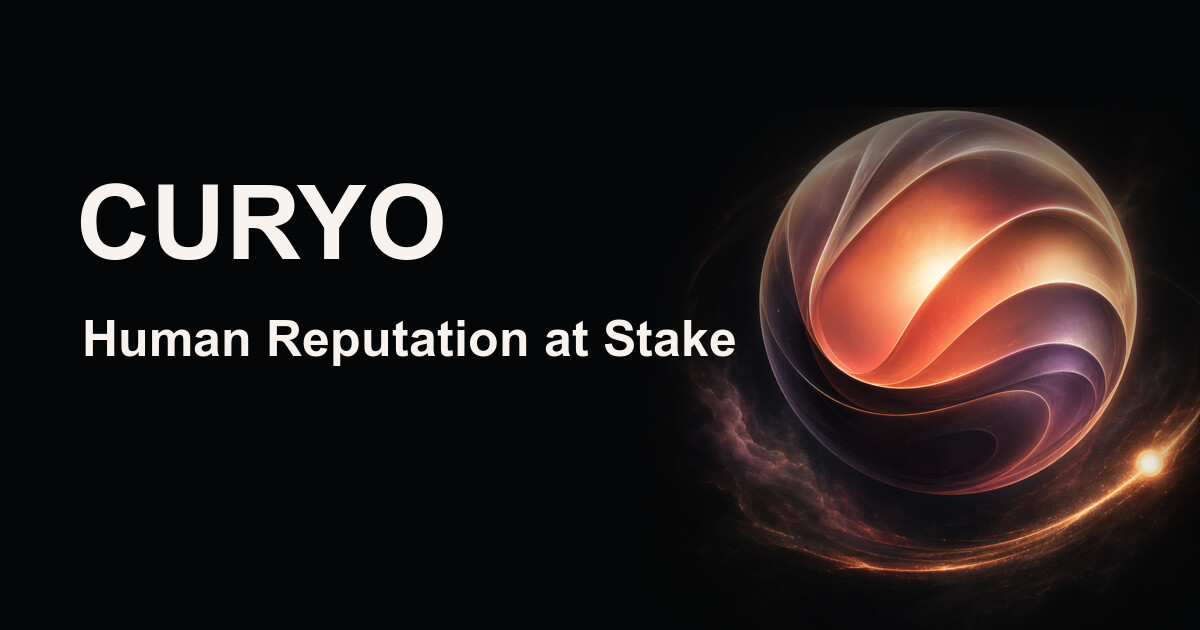
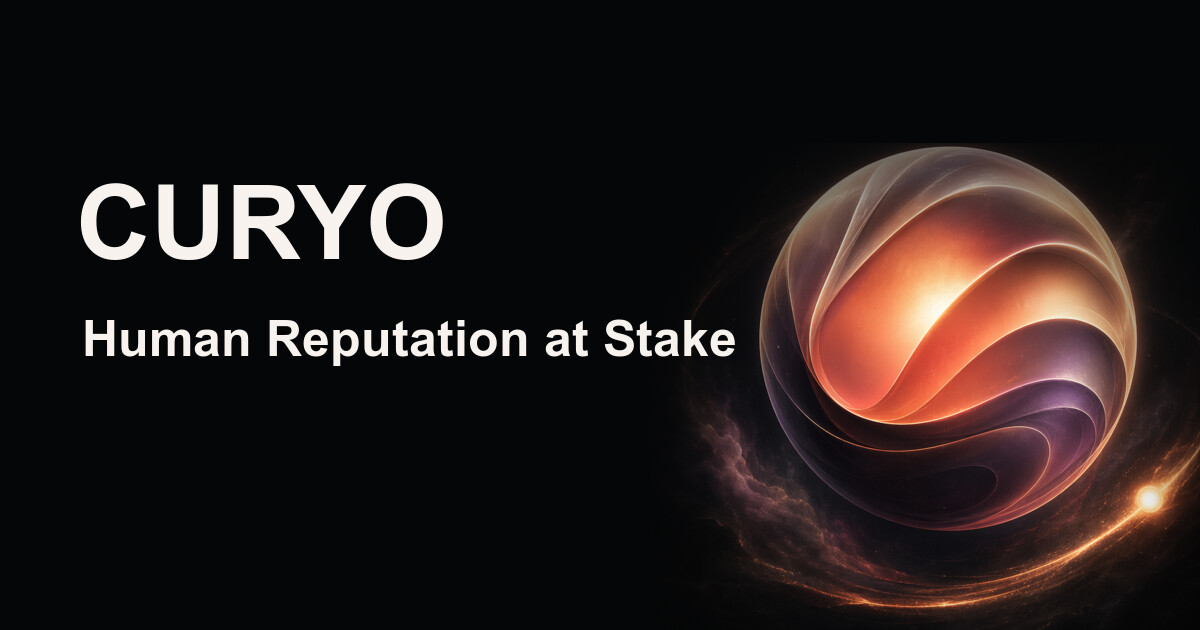
Center landing orb artwork

Changed region(s): [[0.5858, 0.1508, 1.0, 0.9952]]

diff --git a/packages/nextjs/components/home/CuryoAnimation.tsx b/packages/nextjs/components/home/CuryoAnimation.tsx
@@ -10,7 +10,7 @@ export function CuryoAnimation() {
         <div className="absolute inset-x-[14%] bottom-[5%] h-[34%] rounded-full bg-[radial-gradient(circle,_rgba(255,155,91,0.18),_rgba(116,49,36,0.12)_36%,_rgba(9,10,12,0)_74%)] blur-[82px]" />
         <div className="absolute inset-x-[22%] top-[5%] h-[24%] rounded-full bg-[radial-gradient(circle,_rgba(255,247,233,0.09),_rgba(9,10,12,0)_72%)] blur-[74px]" />
 
-        <div className="curyo-animation__logo relative h-[18rem] w-[18rem] translate-y-[1.5rem] sm:h-[25rem] sm:w-[25rem] sm:translate-y-[2.5rem] lg:h-[29rem] lg:w-[29rem] lg:translate-y-[3.25rem] xl:h-[31rem] xl:w-[31rem] xl:translate-y-[3.5rem]">
+        <div className="curyo-animation__logo relative h-[18rem] w-[18rem] translate-y-[2.75rem] sm:h-[25rem] sm:w-[25rem] sm:translate-y-[3.5rem] lg:h-[29rem] lg:w-[29rem] lg:translate-y-[4.25rem] xl:h-[31rem] xl:w-[31rem] xl:translate-y-[4.5rem]">
           <PosterOrbScene className="h-full w-full" animated={false} />
         </div>
       </div>
